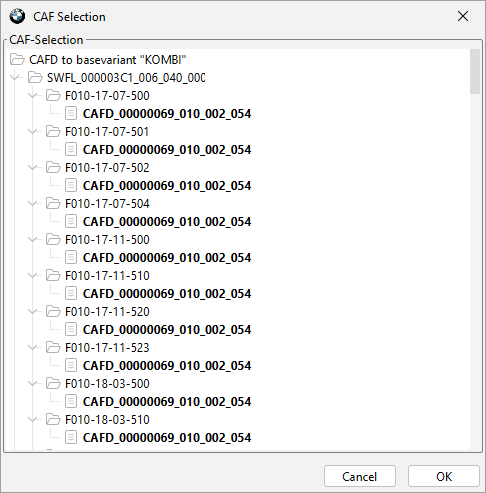
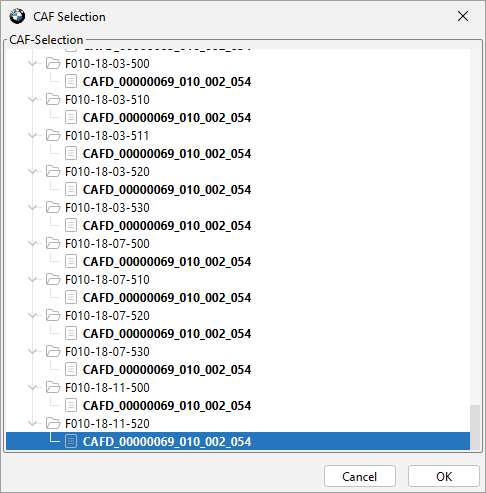
README: CAFD_FFFFFFFF fix step by step with E-Sys pictures (before, CAF Selection, after)

Changed region(s): [[0.0, 0.0913, 0.9877, 0.9128], [0.9568, 0.0913, 0.9877, 0.213]]

diff --git a/README.md b/README.md
@@ -23,16 +23,7 @@ Everything you change stays for next time. Tick **Start fresh** to go back to th
 
 Click **Practice** in the window to make the picked car misbehave on purpose, the way real cars do.
 
-<table>
-<tr>
-<td width="50%" valign="top"><img src="docs/practice.png" alt="The Practice window: problems to practise on, erase a module's coding data, save points" width="400"></td>
-<td width="50%" valign="top"><img src="docs/esys-caf-selection.png" alt="E-Sys CAF Selection: CAFD_00000069_010_002_054 for the instrument cluster, at every I-step" width="380"></td>
-</tr>
-<tr>
-<td valign="top">The Practice window</td>
-<td valign="top">Fixing <code>CAFD_FFFFFFFF</code>: E-Sys offers the cluster's CAFD</td>
-</tr>
-</table>
+<img src="docs/practice.png" alt="The Practice window: problems to practise on, erase a module's coding data, save points" width="420">
 
 | Problem | What E-Sys sees |
 |---|---|
@@ -42,17 +33,27 @@ Click **Practice** in the window to make the picked car misbehave on purpose, th
 | The connection drops during coding | The connection breaks once, at the third coding write. |
 | Low battery | The engine computer reports 11.4 V. |
 
-**Fix `CAFD_FFFFFFFF`** in E-Sys, Expert Mode > Coding:
-
-1. **Read** the vehicle order, then **Read (ECU)** under SVT Actual. The module shows `CAFD_FFFFFFFF_255_255_255`.
-2. Click the **module's line** (for example `KOMBI [0x60]`), not the CAFD line.
-3. Press **Detect CAF for SWE** under SVT Target, pick a CAFD in the list, **OK**.
-4. With the module still selected, press **Code**.
-5. **Read (ECU)** again: the CAFD is back.
-
 **Save points** keep the car as it is (everything coded, flashed or written) so you can go back to it later, for example before a risky change or for a second take of a video. **Start fresh** still goes back to the car as it left the factory.
 
 A running car starts again by itself with your changes when you close the Practice window. Problems are kept in `problems.txt`, save points in `savepoints`, both in the car's folder.
+
+### Fix CAFD_FFFFFFFF in E-Sys
+
+Erase the instrument cluster's coding data in **Practice**, connect, and open **Expert Mode > Coding**. These pictures are from E-Sys 25.10 with the F10.
+
+**1.** **Read** the vehicle order, then **Read (ECU)** under SVT Actual. The cluster shows `CAFD_FFFFFFFF_255_255_255`: it has no coding data.
+
+<img src="docs/esys-cafd-before.png" alt="E-Sys SVT: KOMBI [0x60] with CAFD_FFFFFFFF_255_255_255" width="760">
+
+**2.** Click the **module's line**, `KOMBI [0x60]`, not the CAFD line. Press **Detect CAF for SWE** under SVT Target. E-Sys lists the CAFD that fits the cluster's software at each I-step: pick one and press **OK**.
+
+<img src="docs/esys-caf-selection.png" alt="E-Sys CAF Selection: CAFD_00000069_010_002_054 picked for KOMBI" width="380">
+
+**3.** With `KOMBI [0x60]` still selected, press **Code**. E-Sys codes the cluster with that CAFD.
+
+**4.** **Read (ECU)** again: the cluster has its CAFD back.
+
+<img src="docs/esys-cafd-after.png" alt="E-Sys SVT after coding: KOMBI [0x60] with CAFD_00000069_010_002_054" width="760">
 
 ## Runs next to the clock
 
